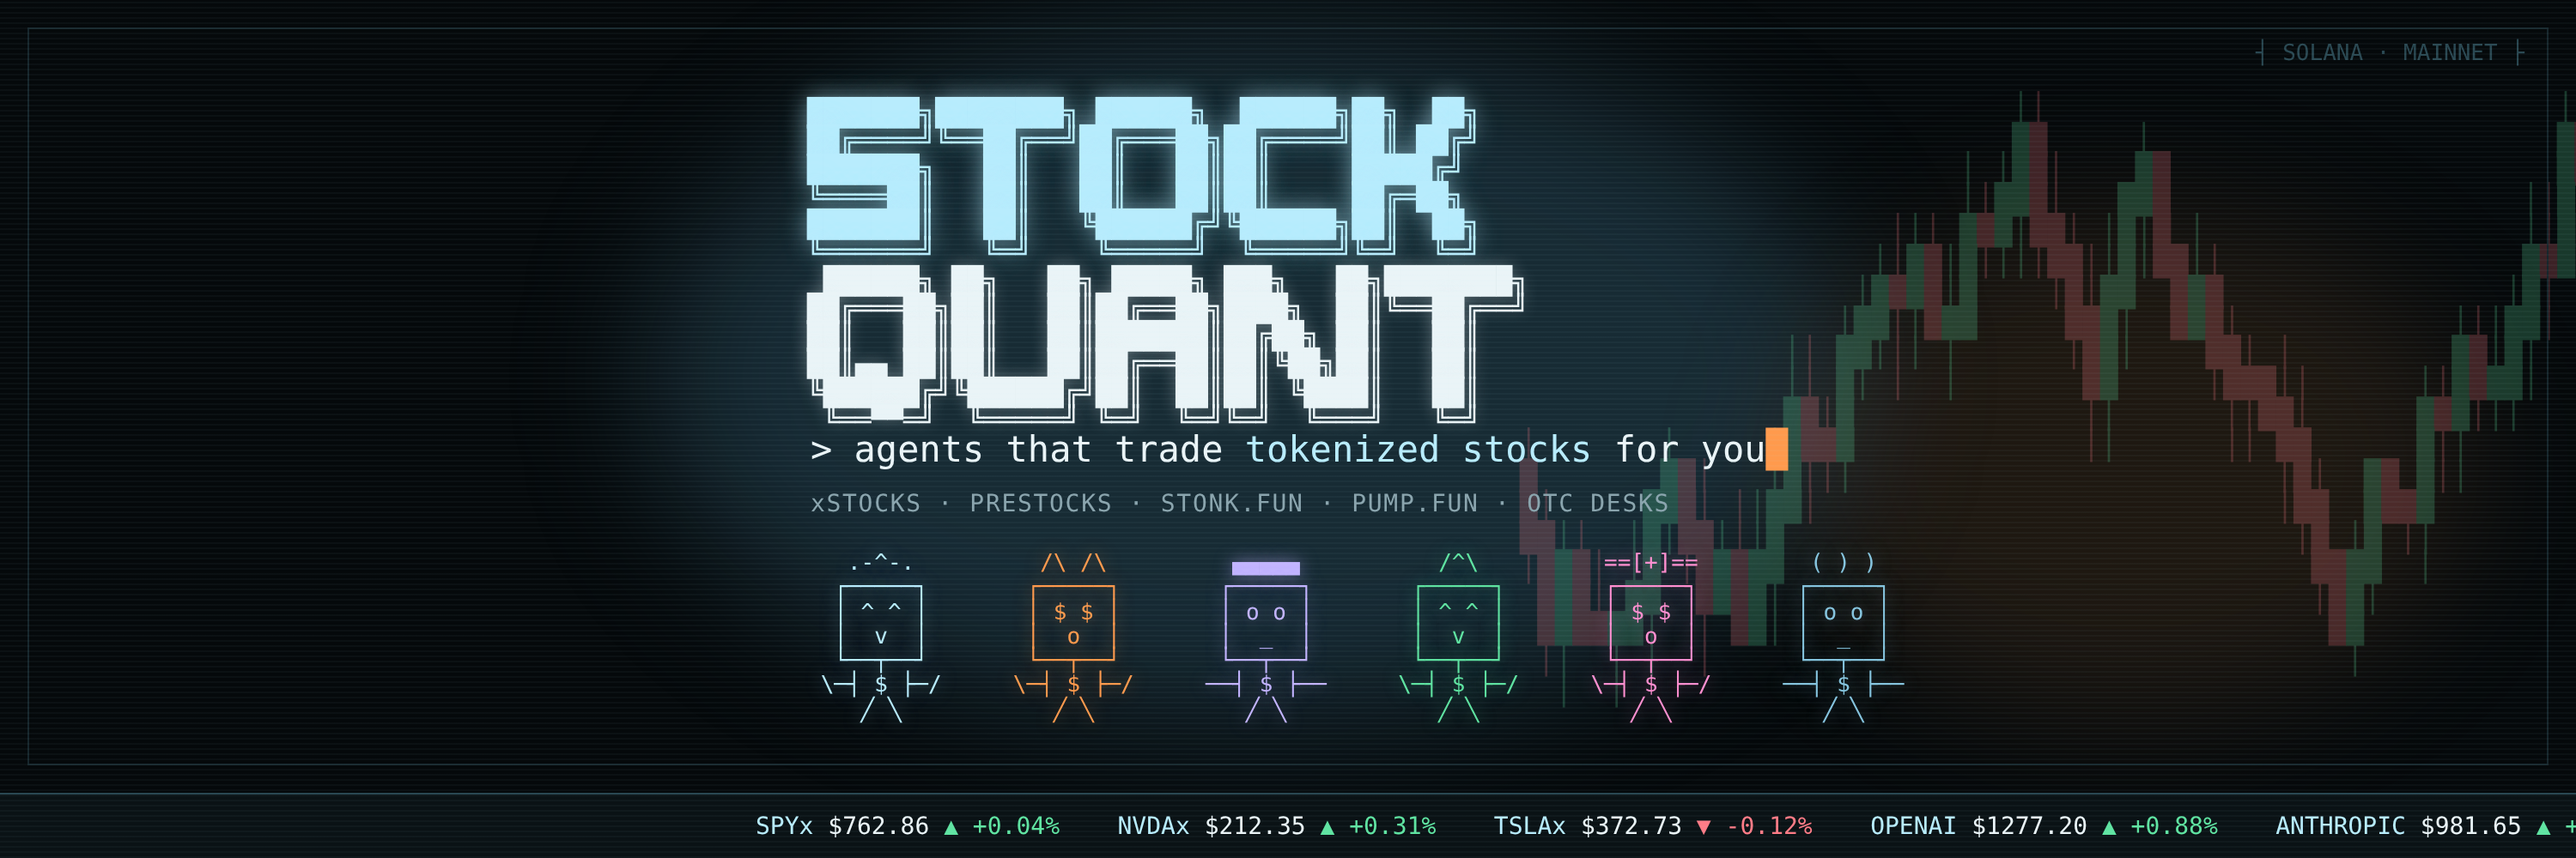
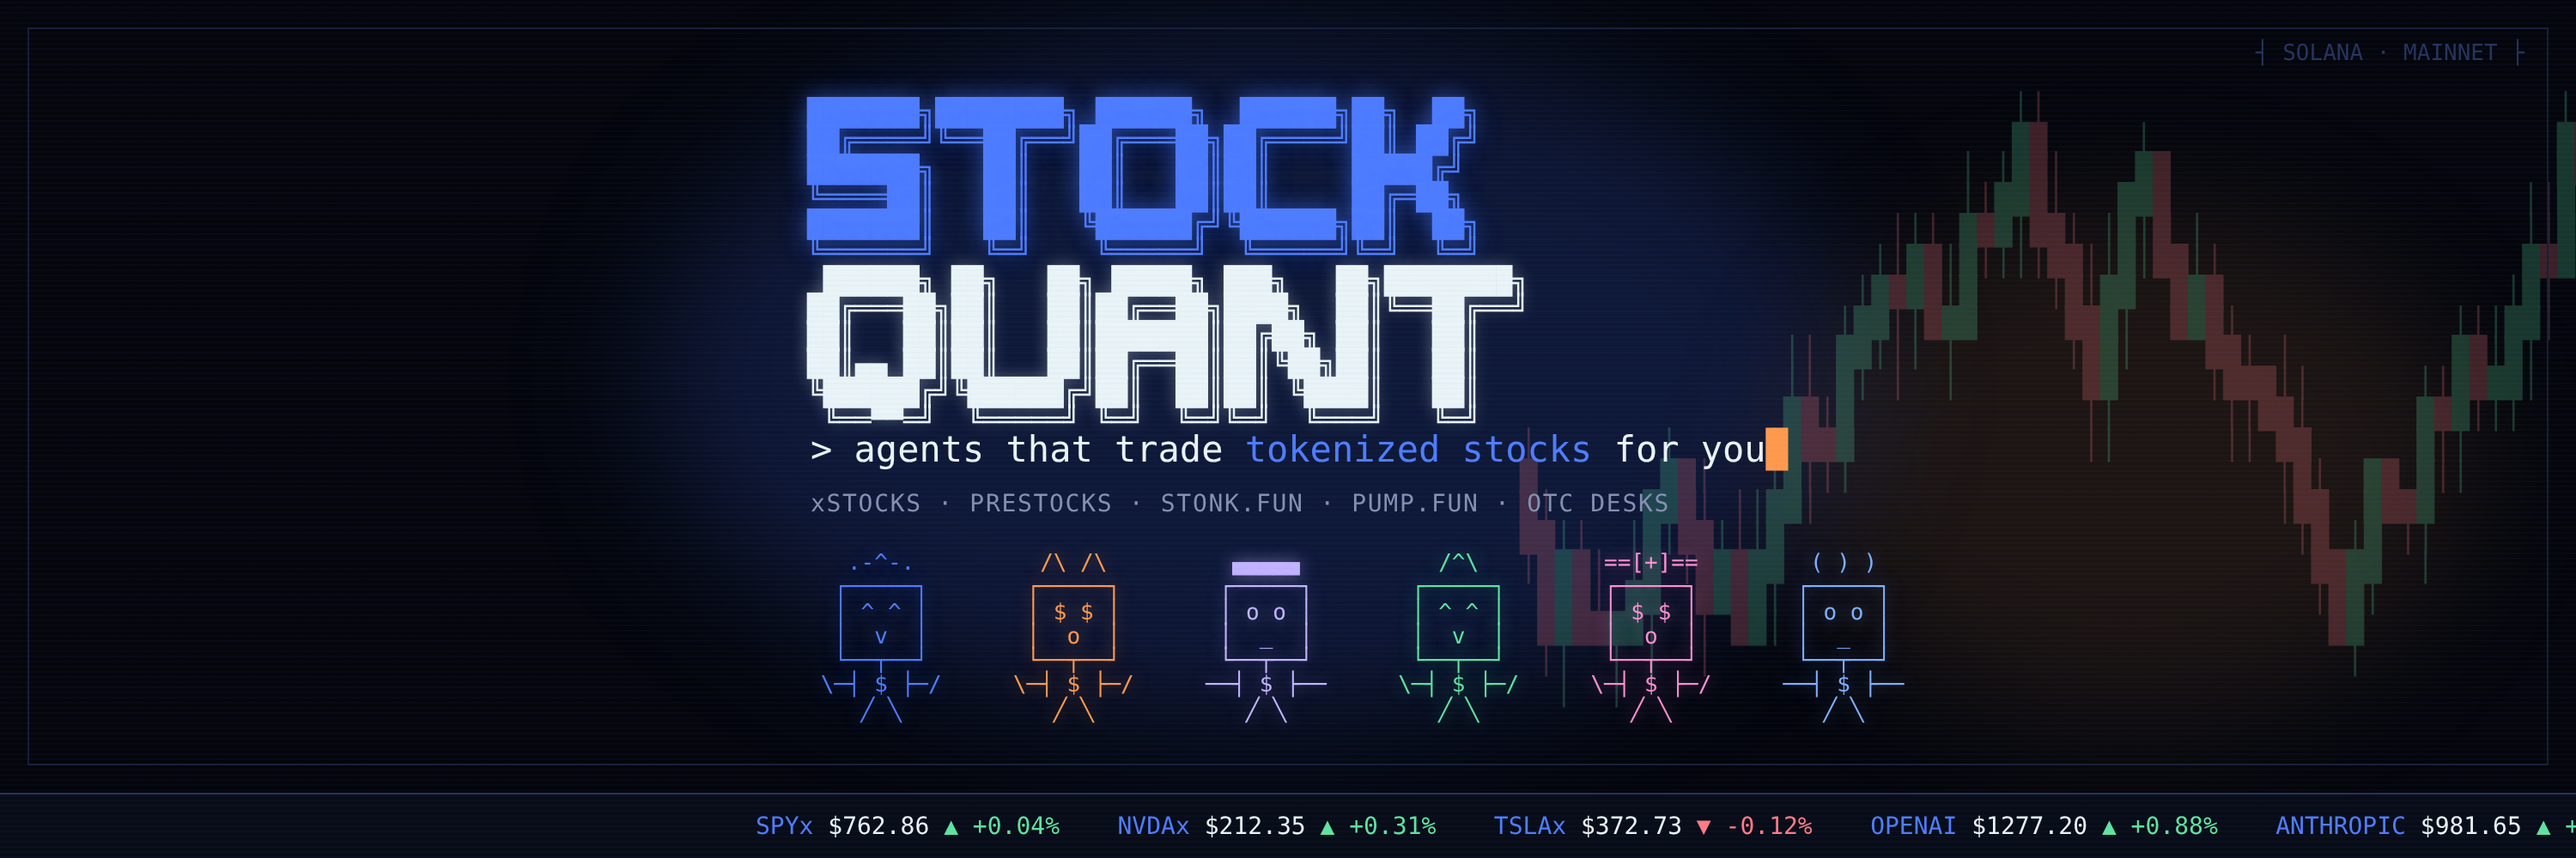
cobalt blue palette + brand refresh

diff --git a/apps/web/app/globals.css b/apps/web/app/globals.css
@@ -1,18 +1,18 @@
-/* Layout: a trading-terminal floor. Ice-blue on deep teal-black panels, ASCII frames, agents live in a grid like desks on a trading floor. Single committed dark look. */
+/* Layout: a trading-terminal floor. Cobalt blue on deep navy-black panels, ASCII frames, agents live in a grid like desks on a trading floor. Single committed dark look. */
 :root {
   color-scheme: dark;
-  --bg: #05090b;
-  --panel: #0a1215;
-  --panel-2: #0f1b1f;
-  --line: #16262c;
-  --line-hi: #2a4852;
-  --fg: #eaf4f7;
-  --muted: #8aa4ad;
-  --amber: #b8ecfd;
-  --amber-dim: #4886a1;
-  --ice-hi: #dcf7ff;
-  --ink: #060b0b;
-  --cyan: #86c5df;
+  --bg: #04060c;
+  --panel: #080c17;
+  --panel-2: #0c1220;
+  --line: #161e35;
+  --line-hi: #26345c;
+  --fg: #e7ebf5;
+  --muted: #8590b0;
+  --amber: #4f7dff;
+  --amber-dim: #2a47a8;
+  --ice-hi: #7f9fff;
+  --ink: #04060c;
+  --cyan: #7fb0ff;
   --fire: #ff9a4d;
   --pink: #ff8fd0;
   --violet: #c3b4ff;
@@ -32,7 +32,7 @@ body {
   padding-left: max(16px, env(safe-area-inset-left, 0px));
   padding-right: max(16px, env(safe-area-inset-right, 0px));
   padding-block: 0 48px;
-  background-image: repeating-linear-gradient(0deg, rgba(184,236,253,.025) 0 1px, transparent 1px 3px);
+  background-image: repeating-linear-gradient(0deg, rgba(79,125,255,.025) 0 1px, transparent 1px 3px);
 }
 body::before { content: ""; position: fixed; inset: 0 0 auto; height: env(safe-area-inset-top, 0px); z-index: 10; background: var(--bg); }
 .app { max-width: 1320px; margin: 0 auto; display: flex; flex-direction: column; gap: 18px; }
@@ -69,7 +69,7 @@ button { cursor: pointer; }
 .btn:active { transform: translateY(2px); box-shadow: 0 1px 0 var(--amber-dim); }
 .btn:hover { background: var(--ice-hi); }
 .btn.ghost { background: transparent; color: var(--amber); border: 1px solid var(--amber-dim); box-shadow: 0 3px 0 var(--line-hi); }
-.btn.ghost:hover { background: rgba(184,236,253,.1); }
+.btn.ghost:hover { background: rgba(79,125,255,.1); }
 .btn.danger { background: transparent; color: var(--down); border: 1px solid var(--down); box-shadow: 0 3px 0 #6b2a31; }
 .btn.danger.armed { background: var(--down); color: #1a0705; }
 
@@ -93,8 +93,8 @@ button { cursor: pointer; }
 /* hero */
 .hero { display: grid; grid-template-columns: minmax(0, 1fr) minmax(0, 1.25fr); gap: 18px; align-items: stretch; }
 .hero-left { display: flex; flex-direction: column; gap: 16px; justify-content: space-between; min-width: 0; container-type: inline-size; }
-.logo { margin: 0; font-family: var(--font-mono); line-height: 1.02; color: var(--amber); font-size: min(14px, 3.5cqi); white-space: pre; text-shadow: 0 0 12px rgba(184,236,253,.35); }
-.logo .q { color: var(--fg); text-shadow: 0 0 10px rgba(234,244,247,.2); }
+.logo { margin: 0; font-family: var(--font-mono); line-height: 1.02; color: var(--amber); font-size: min(14px, 3.5cqi); white-space: pre; text-shadow: 0 0 12px rgba(79,125,255,.35); }
+.logo .q { color: var(--fg); text-shadow: 0 0 10px rgba(231,235,245,.18); }
 .pitch { font-size: 15px; max-width: 52ch; margin: 0; text-wrap: balance; }
 .pitch em { font-style: normal; color: var(--amber); }
 .stats { display: grid; grid-template-columns: repeat(3, minmax(0, 1fr)); gap: 1px; background: var(--line); border: 1px solid var(--line); }
@@ -160,7 +160,7 @@ button { cursor: pointer; }
 .strat-opt label pre { margin: 0; font-size: 7px; line-height: 1.1; color: var(--muted); }
 .strat-opt label b { display: block; font-weight: 500; font-size: 12px; }
 .strat-opt label small { display: block; color: var(--muted); font-size: 10px; line-height: 1.35; }
-.strat-opt input:checked + label { border-color: var(--amber); background: rgba(184,236,253,.07); }
+.strat-opt input:checked + label { border-color: var(--amber); background: rgba(79,125,255,.07); }
 .strat-opt input:checked + label pre { color: var(--amber); }
 .strat-opt input:focus-visible + label { outline: 2px solid var(--amber); outline-offset: 1px; }
 .checks { display: flex; flex-wrap: wrap; gap: 6px; }
@@ -187,8 +187,8 @@ th, td { text-align: left; padding: 6px 8px; border-bottom: 1px solid var(--line
 th { font-size: 10px; text-transform: uppercase; letter-spacing: .12em; color: var(--muted); font-weight: 400; }
 td.r, th.r { text-align: right; }
 tbody tr { cursor: pointer; }
-tbody tr:hover { background: rgba(184,236,253,.05); }
-tbody tr.sel { background: rgba(184,236,253,.09); }
+tbody tr:hover { background: rgba(79,125,255,.05); }
+tbody tr.sel { background: rgba(79,125,255,.09); }
 .sym-cell b { color: var(--amber); font-weight: 500; }
 .kind { font-size: 10px; padding: 0 5px; border: 1px solid; text-transform: uppercase; letter-spacing: .08em; }
 .k-xstock { color: var(--cyan); } .k-prestock { color: var(--violet); } .k-pair { color: var(--pink); } .k-pump { color: var(--lime); } .k-otc { color: var(--amber); } .k-stonk { color: var(--fire); }
@@ -284,7 +284,7 @@ button:disabled { opacity: .5; cursor: not-allowed; }
 .l-hero { display: grid; grid-template-columns: minmax(0, 1.05fr) minmax(0, 1fr); gap: 28px; align-items: center; padding-block: 40px 24px; }
 .l-hero-copy { display: flex; flex-direction: column; gap: 18px; min-width: 0; container-type: inline-size; }
 .l-logo { font-size: min(16px, 3.7cqi); animation: l-glitch 6s steps(1) infinite; }
-@keyframes l-glitch { 0%, 92%, 100% { transform: none; text-shadow: 0 0 12px rgba(184,236,253,.35); } 93% { transform: translateX(2px); text-shadow: -2px 0 var(--pink), 2px 0 var(--cyan); } 95% { transform: translateX(-2px); } 97% { transform: none; text-shadow: 2px 0 var(--fire); } }
+@keyframes l-glitch { 0%, 92%, 100% { transform: none; text-shadow: 0 0 12px rgba(79,125,255,.35); } 93% { transform: translateX(2px); text-shadow: -2px 0 var(--pink), 2px 0 var(--cyan); } 95% { transform: translateX(-2px); } 97% { transform: none; text-shadow: 2px 0 var(--fire); } }
 .typer { margin: 0; font-family: var(--font-mono); font-size: 13px; line-height: 1.7; color: var(--cyan); min-height: 6.8em; white-space: pre-wrap; }
 .caret { animation: l-blink 1s steps(1) infinite; color: var(--amber); }
 @keyframes l-blink { 50% { opacity: 0; } }

diff --git a/apps/web/app/layout.tsx b/apps/web/app/layout.tsx
@@ -6,7 +6,7 @@ export const metadata: Metadata = {
   description: "Agents that buy and manage tokenized stocks and stock-paired launchpad coins (stonk.fun, pump.fun, OTC desks) on Solana.",
 };
 
-export const viewport: Viewport = { width: "device-width", initialScale: 1, viewportFit: "cover", themeColor: "#05090b" };
+export const viewport: Viewport = { width: "device-width", initialScale: 1, viewportFit: "cover", themeColor: "#04060c" };
 
 export default function RootLayout({ children }: { children: React.ReactNode }) {
   return (
